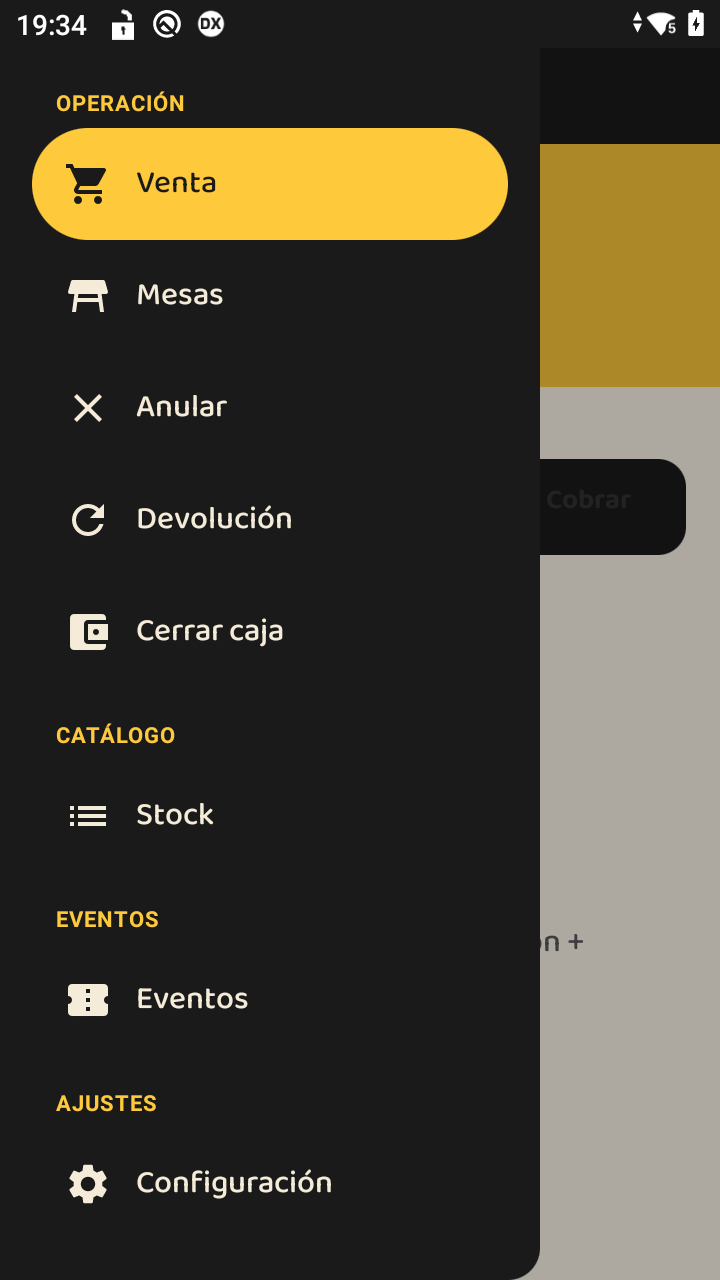
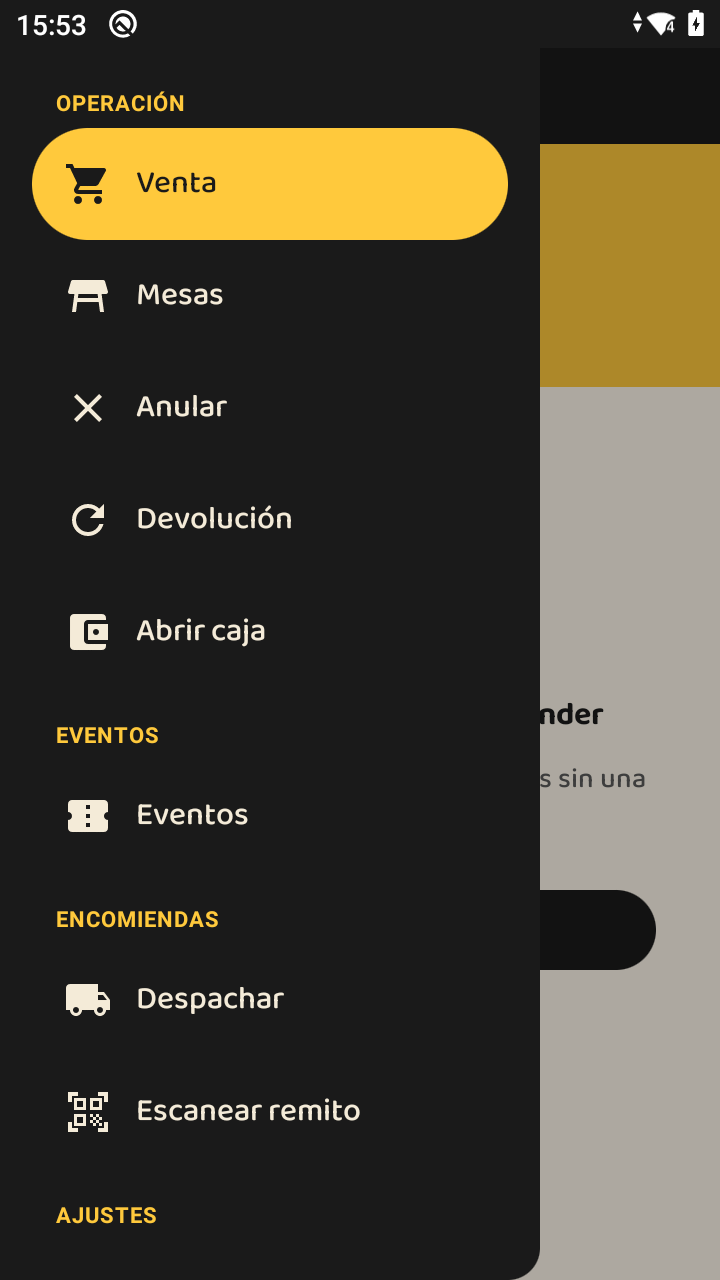
Landing y manuales: capturas nuevas del menú y de Encomiendas (DX, tema kaja)

diff --git a/manuales/manual-cajero.html b/manuales/manual-cajero.html
@@ -149,6 +149,7 @@ blockquote { margin: 16px 0; padding: 8px 16px; border-left: 4px solid var(--ace
 <li><strong>Encomiendas</strong>: Despachar y Escanear remito. Aparece solo si el comercio usa el módulo de encomiendas.</li>
 <li><strong>Ajustes</strong>: Mensajes y Configuración.</li>
 </ul>
+<p>Si no entran todas las opciones, deslizá el menú hacia arriba para ver el resto.</p>
 <h2 id="abrir-la-caja">Abrir la caja</h2>
 <p>Sin una caja abierta no se puede cobrar ni vender entradas. La pantalla de Venta lo avisa con <strong>&quot;Abrí la caja para empezar a vender&quot;</strong>:</p>
 <p><img src="img/kaja-venta-caja-cerrada.png" alt="Venta con la caja cerrada"></p>
@@ -262,15 +263,18 @@ blockquote { margin: 16px 0; padding: 8px 16px; border-left: 4px solid var(--ace
 <li>En <strong>¿Quién paga el envío?</strong> elegí <strong>El que envía</strong> o <strong>El que recibe</strong>. Si paga el que envía, elegí <strong>Efectivo</strong> o <strong>Tarjeta</strong>.</li>
 <li>Tocá <strong>Cobrar $… y despachar</strong> (o <strong>Despachar</strong>, si paga el que recibe).</li>
 </ol>
+<p><img src="img/kaja-encomiendas-despachar.png" alt="Despachar una encomienda"></p>
 <p>Sale impreso el <strong>remito</strong> con su código y un QR: va pegado al paquete. Si la impresora falló, tocá <strong>Reimprimir remito</strong>. <strong>Nuevo despacho</strong> deja el formulario en blanco.</p>
 <h3 id="escanear-remito">Escanear remito</h3>
 <p>En el menú tocá <strong>Encomiendas → Escanear remito</strong> y tocá <strong>Escanear remito</strong> para leer el QR (o escribí el <strong>Código del remito</strong> y tocá <strong>Buscar</strong>). Aparece la encomienda con origen, destino, remitente, destinatario y cada movimiento con su fecha.</p>
+<p><img src="img/kaja-encomiendas-remito.png" alt="Encomienda escaneada, con el envío a cobrar al que recibe"></p>
 <ul>
 <li><strong>Pasar a</strong>: tocá el estado nuevo. El orden es <strong>Despachada → En camino → Recepcionada → En reparto → Entregada</strong>; se puede saltar hacia adelante. <strong>Recepcionada</strong> queda registrada en el local de la terminal; desde ahí puede volver a <strong>En camino</strong> (por ejemplo, para mandarla a otra agencia).</li>
 <li><strong>Paga el que recibe</strong>: si el envío no está pagado, elegí <strong>Efectivo</strong> o <strong>Tarjeta</strong> y tocá <strong>Cobrar $…</strong>. No se puede entregar sin cobrar.</li>
 <li><strong>Entregada</strong>: escribí en <strong>Recibido por</strong> el nombre y documento de quien la retira y tocá <strong>Entregada</strong>.</li>
 <li><strong>Reimprimir remito</strong> vuelve a imprimirlo. <strong>← Escanear otro</strong> vuelve al escáner.</li>
 </ul>
+<p><img src="img/kaja-encomiendas-estados.png" alt="Cambiar el estado o entregar la encomienda"></p>
 <p>Si aparece <strong>&quot;Cobrado, pero no se pudo avisar a kaja-bo&quot;</strong>, el cobro ya salió: tocá <strong>Reintentar aviso a kaja-bo</strong> y <strong>no vuelvas a cobrar</strong>.</p>
 <h2 id="configuración">Configuración</h2>
 <p>En el menú tocá <strong>Configuración</strong>.</p>

diff --git a/index.html b/index.html
@@ -481,7 +481,7 @@
         <p>Productos, carrito con +/−, escaneo y botón Cobrar siempre a mano.</p>
       </figure>
       <figure class="phone-card" style="margin:0">
-        <div class="phone"><img src="assets/app-menu.png" alt="Menú lateral de kaja agrupado en Operación, Catálogo, Eventos y Ajustes"></div>
+        <div class="phone"><img src="assets/app-menu.png" alt="Menú lateral de kaja agrupado en Operación, Eventos, Encomiendas y Ajustes"></div>
         <h4>Menú</h4>
         <p>Todas las pantallas agrupadas en un menú lateral: Operación, Eventos, Encomiendas y Ajustes.</p>
       </figure>
@@ -489,6 +489,11 @@
         <div class="phone"><img src="assets/app-buscador.png" alt="Buscador manual de productos"></div>
         <h4>Buscador</h4>
         <p>Encontrá cualquier producto por nombre o código de barras en un segundo.</p>
+      </figure>
+      <figure class="phone-card" style="margin:0">
+        <div class="phone"><img src="assets/app-encomiendas.png" alt="Formulario para despachar una encomienda: destinatario, contenido, bultos, precio y quién paga"></div>
+        <h4>Encomiendas</h4>
+        <p>Despachás con remito QR, cobrás al despachar o al entregar y seguís cada envío escaneándolo.</p>
       </figure>
       <figure class="phone-card" style="margin:0">
         <div class="phone"><img src="assets/app-anular.png" alt="Pantalla de anulación por número de ticket"></div>
